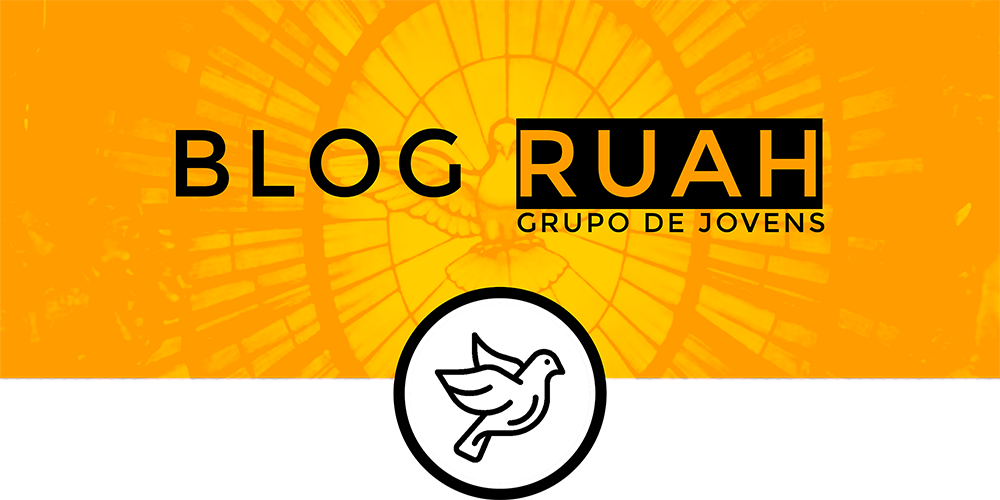
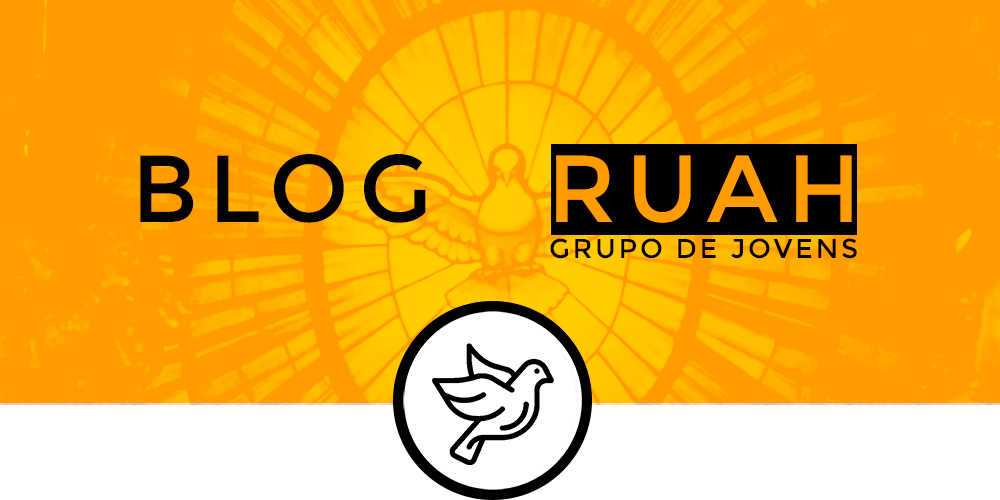
Melhoria - Leitura
Aumentei as letras e fiz ajustes sobre alguns paineis

diff --git a/index.html b/index.html
@@ -62,7 +62,7 @@
 	    <img src="post_02.jpg" alt="Juventude" style="width:100%">
 	    <div style="width:90%" class="w3-container w3-center">
 	      <p class="txt-cards" align="justify">É importante partilhar que ser Igreja não anula o nosso ser jovem. A juventude da Igreja também sonha, canta, trabalha, erra, namora, chora, ...</p>
-	      <button class="button button5" style="padding: 20px 30px; font-size: 25px;"><a href="posts.html">LER MAIS</a></button>
+	      <button class="button-lermais" class="button button5"><a href="posts.html">LER MAIS</a></button>
 	      <div style="margin:60px"></div>
 	    </div>
 	  </div>
@@ -76,7 +76,7 @@
 	    <img src="post_01.jpg" alt="Juventude" style="width:100%">
 	    <div style="width:90%" class="w3-container w3-center">
 	      <p class="txt-cards" align="justify">Adorar a Deus é dedicar a Ele o nosso amor, nossa reverência, nosso serviço e nossa devoção. Por meio da adoração, nosso conhecimento e nossa fidelidade ...</p>
-	      <button class="button button5" style="padding: 20px 30px; font-size: 25px;"><a href="posts.html">LER MAIS</a></button>
+	      <button class="button-lermais" class="button button5"><a href="posts.html">LER MAIS</a></button>
 	      <div style="margin:60px"></div>
 	    </div>
 	  </div>
@@ -90,7 +90,7 @@
 	    <img src="post_03.jpg" alt="Juventude" style="width:100%">
 	    <div style="width:90%" class="w3-container w3-center">
 	      <p class="txt-cards" align="justify"> As Vocações da Igreja são para todos, Deus chama a cada um de forma unica e particular. Porém é preciso se abrir, para se abrir a Vontade ...</p>
-	      <button class="button button5" style="padding: 20px 30px; font-size: 25px;"><a href="posts.html">LER MAIS</a></button>
+	      <button class="button-lermais" class="button button5"><a href="posts.html">LER MAIS</a></button>
 	      <div style="margin:60px"></div>
 	    </div>
 	  </div>

diff --git a/estilo/w3.css b/estilo/w3.css
@@ -32,12 +32,13 @@ p{
 	color: #303030;
 }
 .title-cards{
-	font-size: 40px;
+	font-size: 50px;
 	font-family: sans-serif;
 	font-weight: bold;
 }
 .txt-cards{
-	font-size: 30px;
+	font-size: 45px;
+	color: #6b6b6b;
 }
 #subirTopo {
 text-decoration: none;
@@ -48,7 +49,7 @@ color: #fff;
 text-align: center;
 cursor: pointer;
 padding: 20px;
-font-size: 20px;
+font-size: 33px;
 font-weight: bold;
 text-transform: uppercase;
 position: fixed;
@@ -58,7 +59,7 @@ opacity: .8;
 }
 
 #subirTopo:hover {
-opacity:10;
+opacity:50;
 }
 .title-page-post{
 	font-size: 65px;
@@ -82,3 +83,21 @@ opacity:10;
   .compartilhar-whatsapp {
     display: none;
   }
+  .button-lermais{
+  	padding: 20px 30px; 
+  	font-size: 30px;
+  	background-color: #303030; /* Green */
+ 	border-radius: 20px;
+  	color: white;
+  	text-align: center;
+  	text-decoration: none;
+  	display: inline-block;
+  	margin: 4px 30px;
+  	-webkit-transition-duration: 0.4s; /* Safari */
+  	transition-duration: 0.4s;
+  	cursor: pointer;
+  }
+  .button5:hover {
+  background-color: White; 
+  color: Black;
+}
